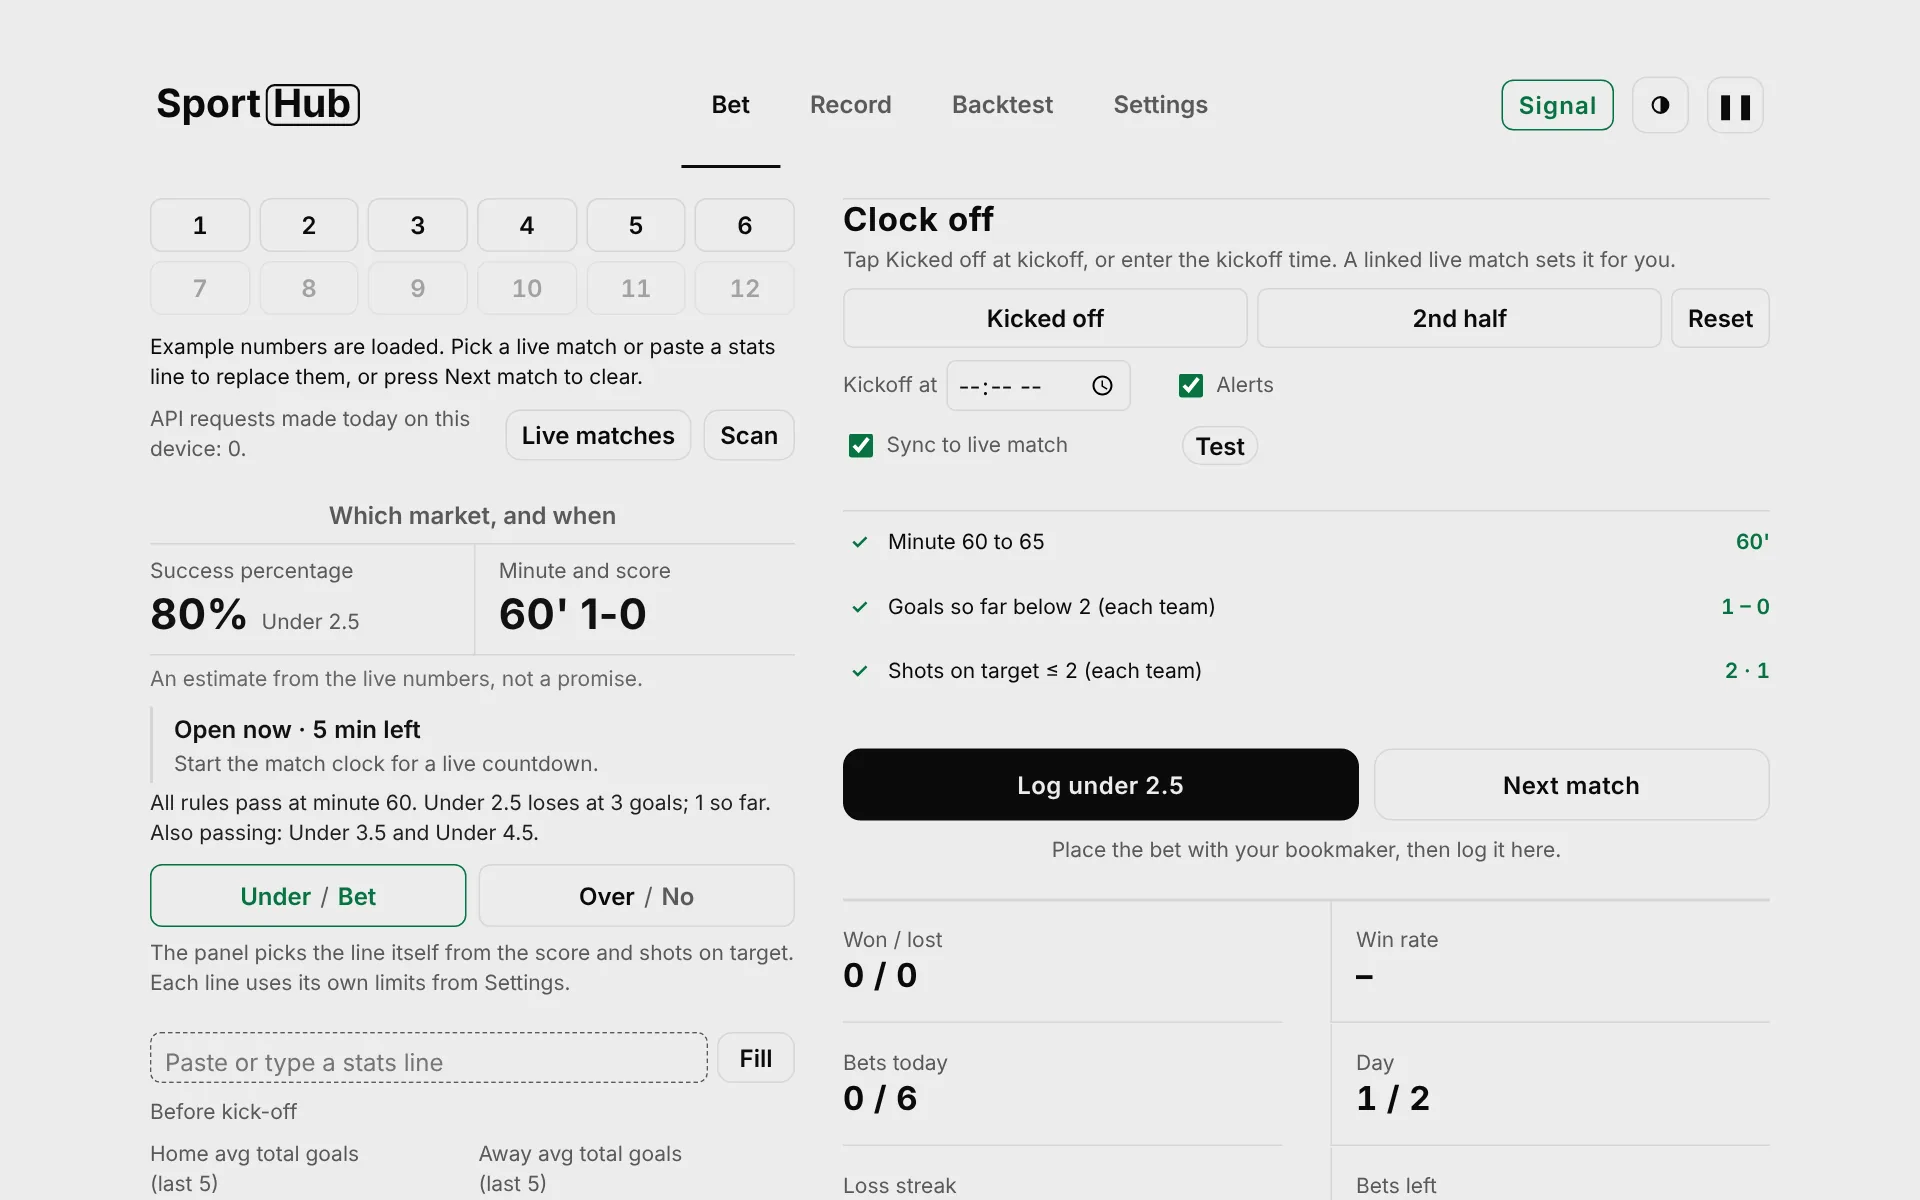
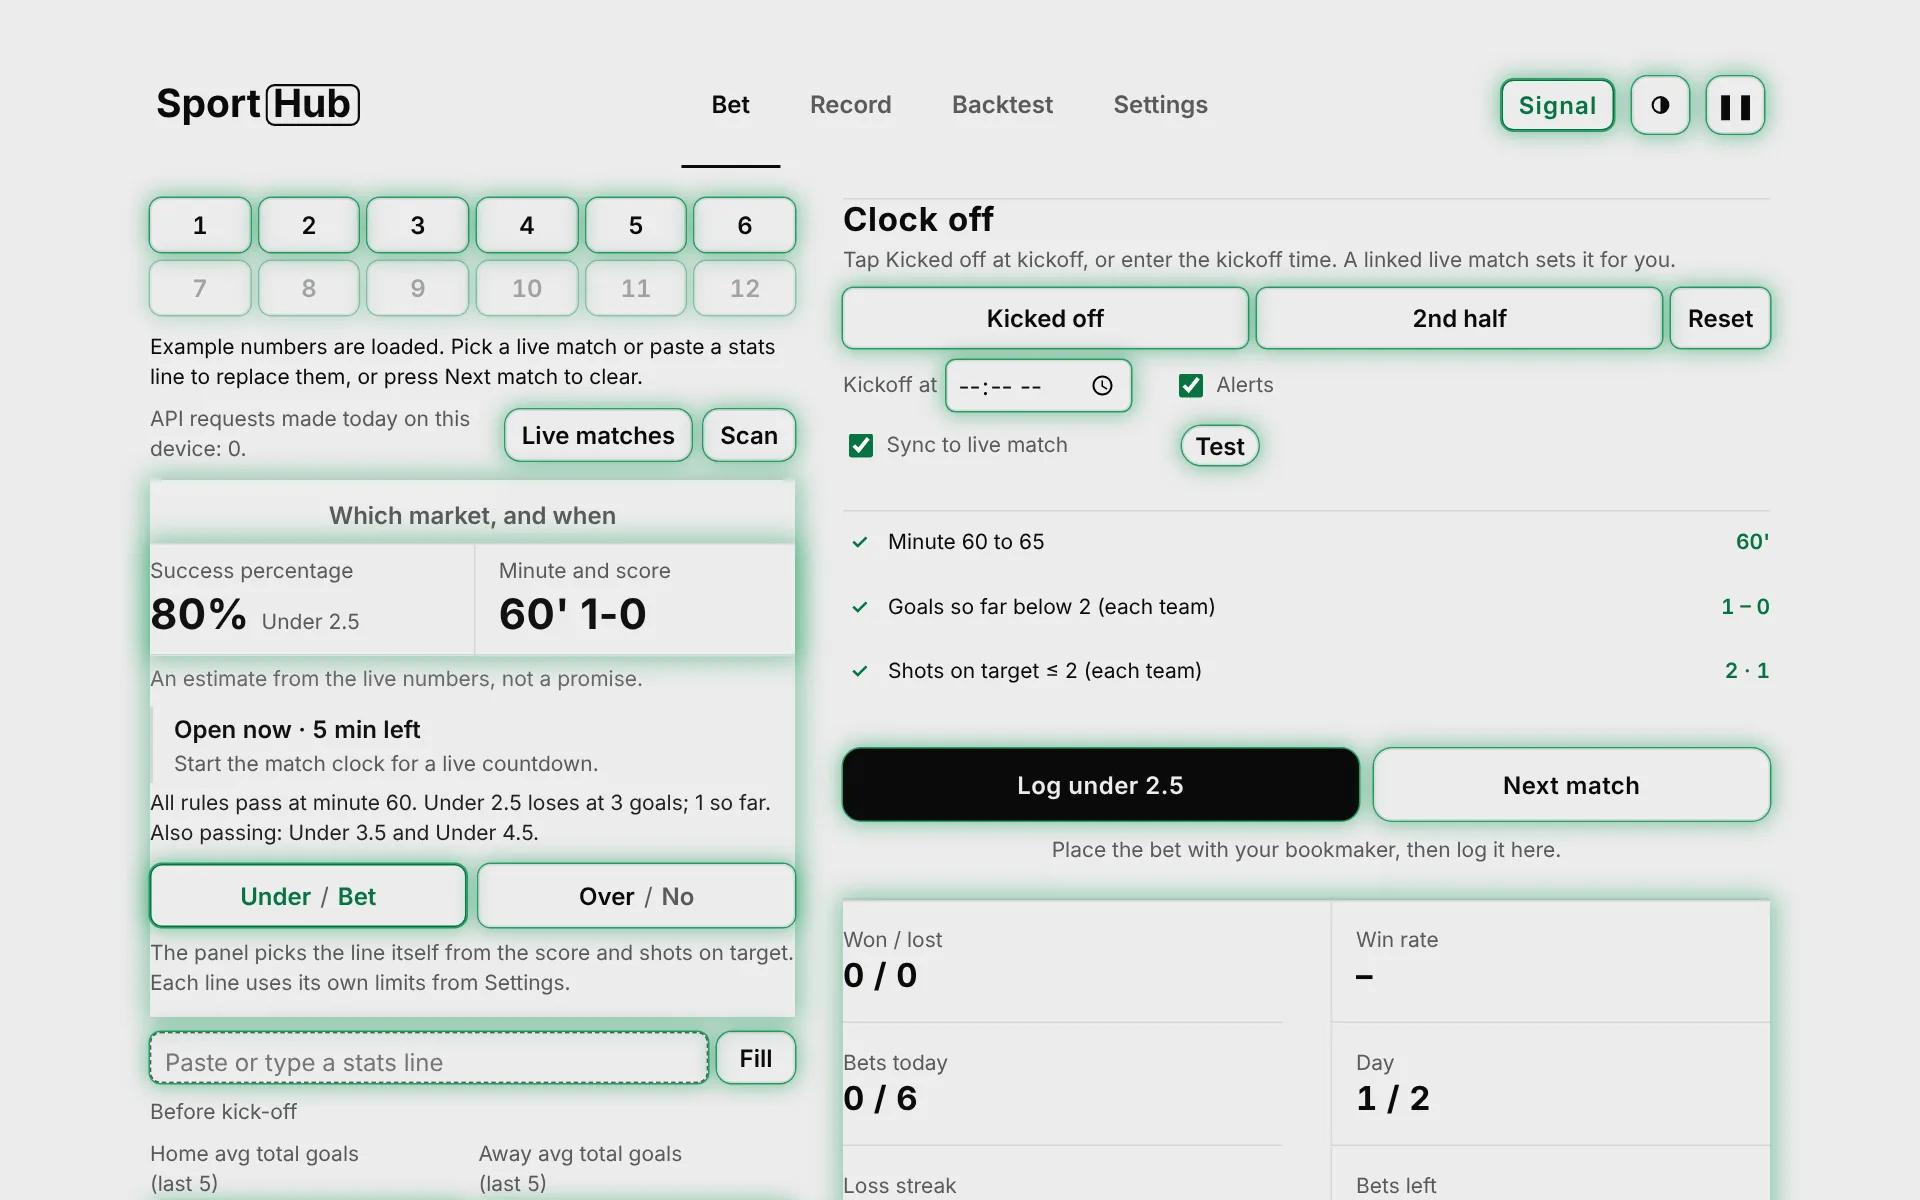
Build 67: every box keeps a soft green glow, non stop
A thin green ring and glow breathes around buttons, chips, fields, cards and the floating bar. Still green glow when the device asks for reduced motion.

Claude-Session: https://claude.ai/code/session_01K42p2uwRXf4Wwj9iN5MFzn

Changed region(s): [[0.0625, 0.3083, 0.9375, 1.0], [0.0625, 0.1542, 0.9375, 0.4008], [0.75, 0.0308, 0.9375, 0.1233]]

diff --git a/panel.html b/panel.html
@@ -866,6 +866,42 @@ body.pg3 .v2[data-cur="3"] [data-pg]:not([data-pg~="3"]){display:none!important}
 .lvrow #apiq.lvl1,.lvrow #apiq.lvl2{flex-basis:100%}
 .lvrow .lvbs{display:flex;flex:none;gap:8px}
 .lvrow .lvbs .lvbtn{padding:0 10px}
+
+/* ===== Build 67: every box keeps a soft green glow, non stop ===== */
+:root{--glr:47,210,122}
+@media (prefers-color-scheme:light){:root:not([data-theme="dark"]){--glr:10,150,80}}
+:root[data-theme="light"]{--glr:10,150,80}
+/* buttons, chips, fields: a thin green ring that breathes, with a soft glow around it */
+@keyframes u35gl{
+ 0%,100%{box-shadow:0 0 0 1px rgba(var(--glr),.35),0 0 4px 0 rgba(var(--glr),.18)}
+ 50%{box-shadow:0 0 0 1px rgba(var(--glr),.85),0 0 14px 2px rgba(var(--glr),.50)}
+}
+/* open areas whose text sits right at the edge (the Session figures, the charts, the verdict): the glow only, no ring on top of the text */
+@keyframes u35glr{
+ 0%,100%{box-shadow:0 0 5px 0 rgba(var(--glr),.18)}
+ 50%{box-shadow:0 0 16px 3px rgba(var(--glr),.45)}
+}
+/* the floating bar is flat (its own shadow rule is !important), so its glow is a drop-shadow filter that follows the bar's outline */
+@keyframes u35gld{
+ 0%,100%{filter:drop-shadow(0 0 1px rgba(var(--glr),.45)) drop-shadow(0 0 4px rgba(var(--glr),.18))}
+ 50%{filter:drop-shadow(0 0 1px rgba(var(--glr),.9)) drop-shadow(0 0 12px rgba(var(--glr),.55))}
+}
+/* :where keeps the specificity at zero, so the clock and bar flashes above still win while they run */
+:where(.dock,.msc,.badge,.momseg,#pgstrip,#chips i,.lvr,
+ button:not(.fhd):not(.tabs button):not(#pgstrip button):not(.momseg button),
+ input:not([type=checkbox]):not([type=radio]):not([type=range]),select,textarea){animation:u35gl 3.2s ease-in-out infinite}
+:where(#msig,.xgcard,#banner,.grid){animation:u35glr 3.2s ease-in-out infinite}
+:where(.dock){animation-name:u35gld}
+/* the verdict card must not clip the glow of the boxes inside it */
+#msig{overflow:visible}
+@media (prefers-reduced-motion:reduce){
+ /* still, but still green. !important because the flat skin sets box-shadow:none on most of these */
+ :where(.msc,.badge,.momseg,#pgstrip,#chips i,.lvr,
+  button:not(.fhd):not(.tabs button):not(#pgstrip button):not(.momseg button),
+  input:not([type=checkbox]):not([type=radio]):not([type=range]),select,textarea){animation:none;box-shadow:0 0 0 1px rgba(var(--glr),.6),0 0 10px 1px rgba(var(--glr),.35)!important}
+ :where(#msig,.xgcard,#banner,.grid){animation:none;box-shadow:0 0 12px 2px rgba(var(--glr),.35)!important}
+ :where(.dock){animation:none;filter:drop-shadow(0 0 1px rgba(var(--glr),.7)) drop-shadow(0 0 6px rgba(var(--glr),.4))}
+}
 </style>
 </head>
 <body>
@@ -1158,7 +1194,7 @@ body.pg3 .v2[data-cur="3"] [data-pg]:not([data-pg~="3"]){display:none!important}
  </section>
  <div class="pgnav" id="pgnav" hidden><button type="button" data-go="back">Back</button><button type="button" data-go="next">Next</button></div>
  <p class="pgsr" id="pgsr" role="status" aria-live="polite"></p>
- <footer>Numbers come from a pasted stats line, or are pulled from your own API-Sports key if you add one. Not connected to a bookmaker. No bet is guaranteed.<span class="bld"><span id="buildno">Build 66 · 7 Nov 2026</span> <a id="aboutlk" class="abl" href="./?about">About SportHub</a> <button type="button" class="pu" id="reloadnew" data-a="reload">Reload latest</button></span></footer>
+ <footer>Numbers come from a pasted stats line, or are pulled from your own API-Sports key if you add one. Not connected to a bookmaker. No bet is guaranteed.<span class="bld"><span id="buildno">Build 67 · 7 Nov 2026</span> <a id="aboutlk" class="abl" href="./?about">About SportHub</a> <button type="button" class="pu" id="reloadnew" data-a="reload">Reload latest</button></span></footer>
 </main>
 
 <script>

diff --git a/index.html b/index.html
@@ -264,7 +264,7 @@ h1,h2,h3,.wm,.wm *{font-weight:700 !important}
    <div class="phone">
     <picture>
      <source srcset="img/phone-bet-light.webp" media="(prefers-color-scheme: light)">
-     <img src="img/phone-bet-dark.webp" width="816" height="1740" alt="The Match page of the Bet tab at minute 60 with the score 1-0. A line in front of the Live matches and Scan buttons counts the API requests made today on this device. Under those buttons the card shows the Success percentage for this live match next to the minute and score, and a window that is open with 5 minutes left. Two small chips read Under / Bet and Over / No. A page strip under the tabs shows Match, Checks and Session." fetchpriority="high">
+     <img src="img/phone-bet-dark.webp" width="880" height="1740" alt="The Match page of the Bet tab at minute 60 with the score 1-0, every box ringed by a soft green glow. A line in front of the Live matches and Scan buttons counts the API requests made today on this device. Under those buttons the card shows the Success percentage for this live match next to the minute and score, and a window that is open with 5 minutes left. Two small chips read Under / Bet and Over / No. A page strip under the tabs shows Match, Checks and Session." fetchpriority="high">
     </picture>
    </div>
   </div>
